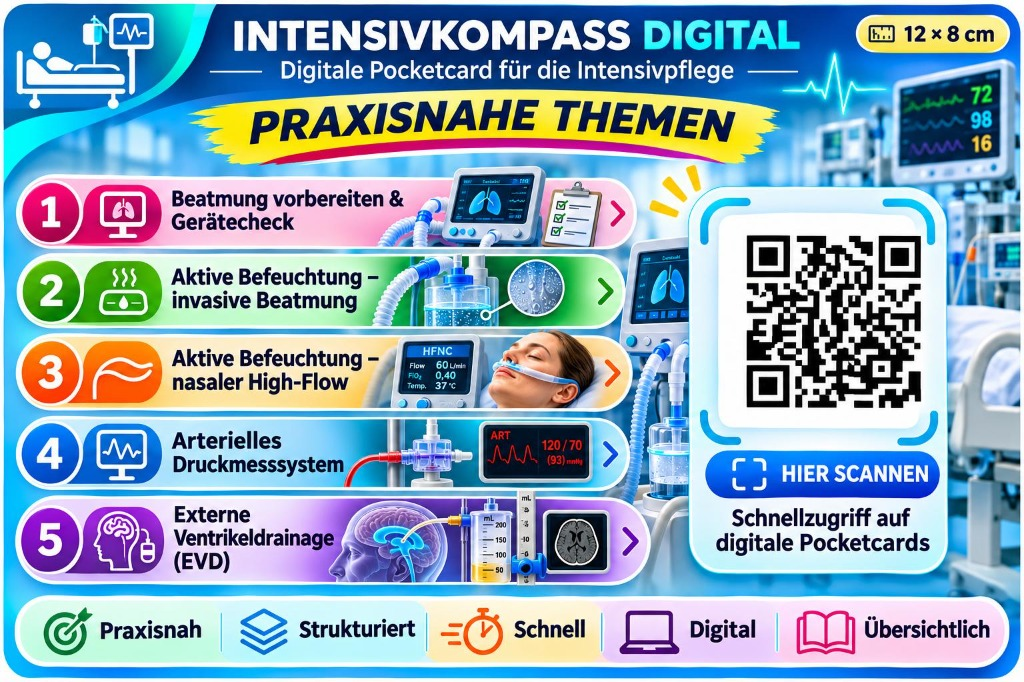
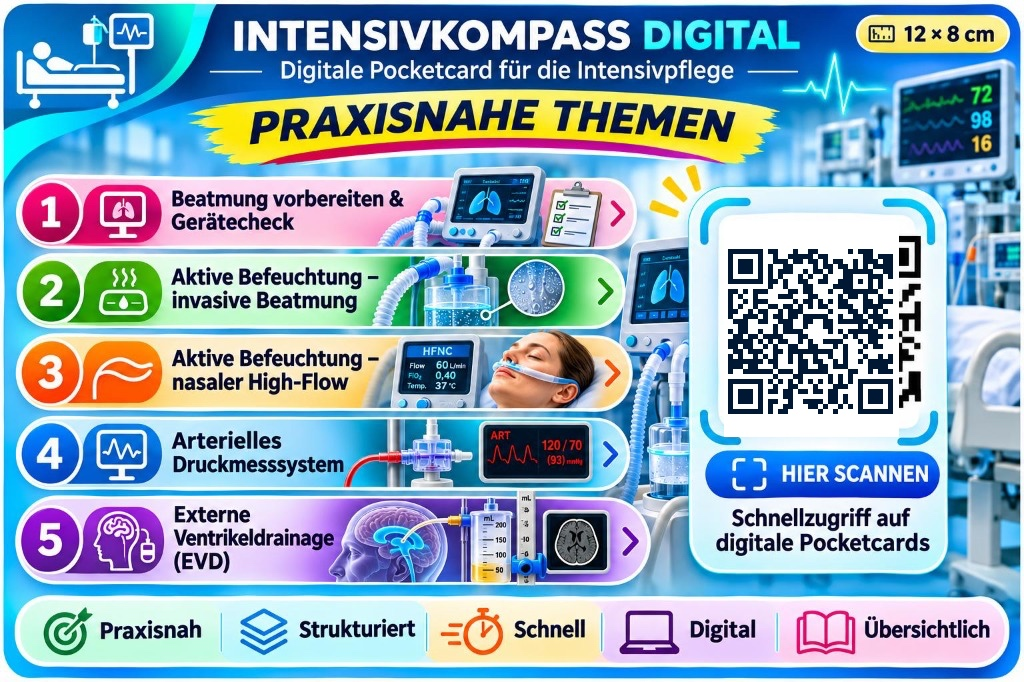
fix(universal-card): eliminate duplicate QR code by baking crisp scannable QR directly into master card assets

Changed region(s): [[0.6875, 0.3387, 0.875, 0.6466]]

diff --git a/js/app.js b/js/app.js
@@ -4052,34 +4052,6 @@ function UniversalCardInteractiveCard({ isAtm = true, onSelectStandard }) {
           title="5. Externe Ventrikeldrainage (EVD) aufrufen"
         />
 
-        {/* Real Crisp Functional Scannable QR Code Overlay - Exactly Centered on the Graphic White Box */}
-        <div
-          style={{
-            position: 'absolute',
-            left: '70.6%',
-            top: '37.1%',
-            width: '21.5%',
-            height: '32.0%',
-            pointerEvents: 'none',
-            display: 'flex',
-            alignItems: 'center',
-            justifyContent: 'center',
-            zIndex: 4,
-            padding: '3px',
-            backgroundColor: '#ffffff',
-            borderRadius: '6px',
-            overflow: 'hidden',
-            boxSizing: 'border-box'
-          }}
-        >
-          <QrCodeCanvas
-            value={portalUrl}
-            size={180}
-            color="#001833"
-            style={{ width: '100%', height: '100%', maxWidth: '100%', maxHeight: '100%', objectFit: 'contain' }}
-          />
-        </div>
-
         {/* Right QR Portal & HIER SCANNEN Hotspot */}
         <div
           className="universal-card-hotspot"
@@ -4168,34 +4140,6 @@ function UniversalCardA4Native({ onSelectStandard }) {
           onClick={() => onSelectStandard('evd')}
           title="5. Externe Ventrikeldrainage (EVD) aufrufen"
         />
-
-        {/* Real Crisp Functional Scannable QR Code Overlay - Centered on Graphic White Box */}
-        <div
-          style={{
-            position: 'absolute',
-            left: '70.6%',
-            top: '37.1%',
-            width: '21.5%',
-            height: '32.0%',
-            pointerEvents: 'none',
-            display: 'flex',
-            alignItems: 'center',
-            justifyContent: 'center',
-            zIndex: 4,
-            padding: '4px',
-            backgroundColor: '#ffffff',
-            borderRadius: '8px',
-            overflow: 'hidden',
-            boxSizing: 'border-box'
-          }}
-        >
-          <QrCodeCanvas
-            value={portalUrl}
-            size={240}
-            color="#001833"
-            style={{ width: '100%', height: '100%', maxWidth: '100%', maxHeight: '100%', objectFit: 'contain' }}
-          />
-        </div>
 
         {/* Right QR Portal & HIER SCANNEN Hotspot */}
         <div
@@ -4788,34 +4732,6 @@ function UniversalCardView({ standards, onSelectStandard, showToast }) {
                     className="w-100 h-100 d-block"
                     style={{ objectFit: 'cover' }}
                   />
-
-                  {/* Scannable Crisp QR Code Overlay - Exactly Centered on the Graphic White Box */}
-                  <div
-                    style={{
-                      position: 'absolute',
-                      left: '70.6%',
-                      top: '37.1%',
-                      width: '21.5%',
-                      height: '32.0%',
-                      pointerEvents: 'none',
-                      display: 'flex',
-                      alignItems: 'center',
-                      justifyContent: 'center',
-                      zIndex: 4,
-                      padding: '3px',
-                      backgroundColor: '#ffffff',
-                      borderRadius: '6px',
-                      overflow: 'hidden',
-                      boxSizing: 'border-box'
-                    }}
-                  >
-                    <QrCodeCanvas
-                      value={portalUrl}
-                      size={180}
-                      color="#001833"
-                      style={{ width: '100%', height: '100%', maxWidth: '100%', maxHeight: '100%', objectFit: 'contain' }}
-                    />
-                  </div>
                 </div>
               </div>
             </div>

diff --git a/index.html b/index.html
@@ -28,7 +28,7 @@
   <link rel="stylesheet" href="https://cdn.jsdelivr.net/npm/bootstrap-icons@1.11.3/font/bootstrap-icons.min.css">
   
   <!-- Custom Stylesheet -->
-  <link rel="stylesheet" href="css/styles.css?v=20261105-02">
+  <link rel="stylesheet" href="css/styles.css?v=20261105-03">
 </head>
 <body>
   <!-- React App Root Container -->
@@ -52,10 +52,10 @@
   <script src="js/html2pdf.bundle.min.js"></script>
 
   <!-- Smart Parser Utility -->
-  <script src="js/parser.js?v=20261105-02"></script>
+  <script src="js/parser.js?v=20261105-03"></script>
 
   <!-- Main React App Script -->
-  <script type="text/babel" src="js/app.js?v=20261105-02"></script>
+  <script type="text/babel" src="js/app.js?v=20261105-03"></script>
 
   <!-- Service Worker Cleanup Script -->
   <script>
